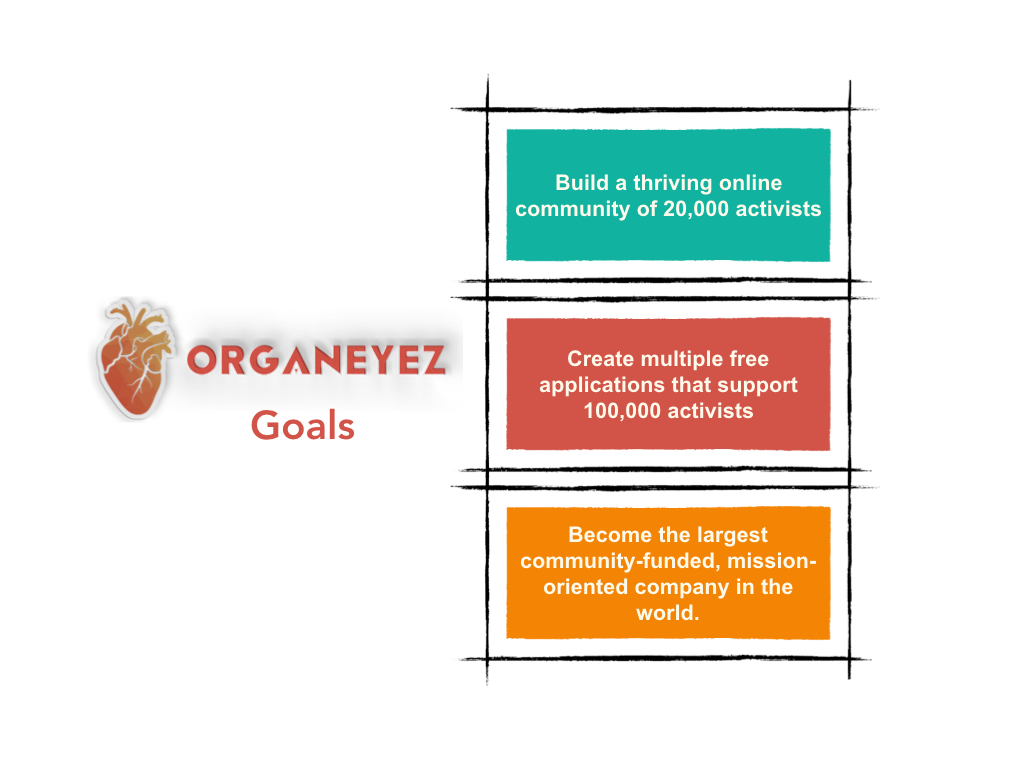
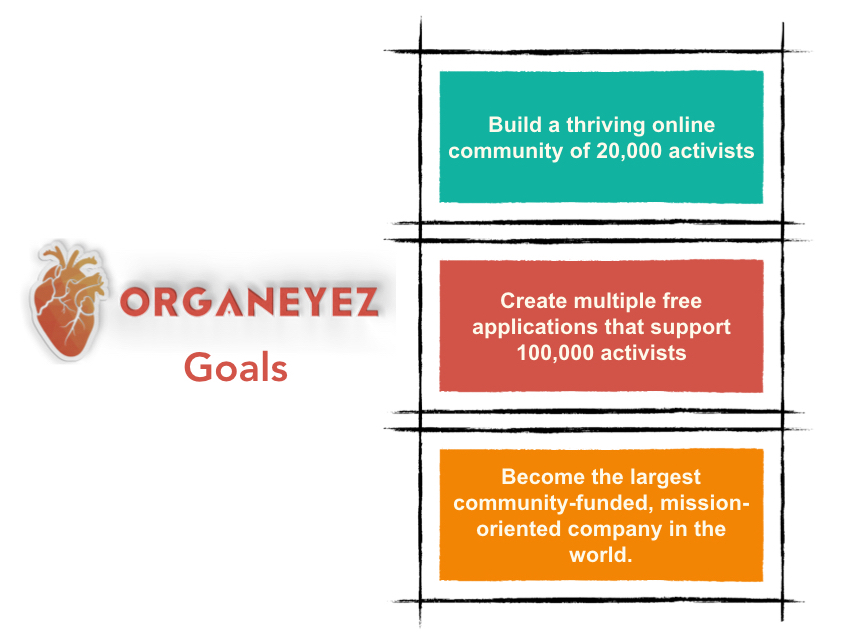
Add final cropped graphics

Changed region(s): [[0.0306, 0.0312, 0.9482, 0.9672], [0.2141, 0.5304, 0.3671, 0.5928]]

diff --git a/index.html b/index.html
@@ -53,7 +53,7 @@
 
   <!-- MISSION -->
     <div id="index">
-      <p class="index-header">The Organeyez mission is to create tools and content that helps social justice organizations and movements be more effective.</p>
+      <p class="index-header">The Organeyez mission is to create tools and content that helps activists and social justice movements be more effective.</p>
     </div>
 
   <!-- ABOUT -->
@@ -62,21 +62,21 @@
     </div>
     <div class="about">
       <h2>Three Pillars</h2>
-      <img src="images/three-pillars.jpeg" id="three-pillars-img">
+      <img src="images/three-pillars-2.jpeg" id="three-pillars-img">
       <div id="three-pillars">
         <ul>
-          <li><strong>Educational Media:</strong> The first pillar is our educational media which will consist of podcast interviews and tons of digital material for social media including videos, memes, tips, recommended resources, and more. Podcast episode features stories of community organizers and researchers and their strategies for being effective. Through our educational media, we strive to help thousands of activists learn effective strategies around security, accountability, scaling, project management, and more.</li>
+          <li><strong>Educational Media:</strong> The first pillar is our educational media which consists of podcast interviews and tons of digital material for social media including videos, memes, tips, recommended resources, and more. Podcast episodes feature various types of activists who talk about the social justice work they are involved in and their strategies for being effective. Through our educational media, we strive to help thousands of activists learn about ways to approach security, accountability, scaling, campaigning, decision-making, strategizing, and more.</li>
           <li><strong>Technology</strong>: Second is our free software applications. We will build and release new apps according to our funding and capacity. Our first app is called Your Activist Resource Directory (YARD) and its an activist platform for creating and sharing libraries of free online resources. YARD aims to help activists share the work of finding and collecting research papers, public policy reports, documentaries, news articles, and other crucial educational information. By organizing it all in one central location that is easy to access, we reduce repetitive work and make it easier for each organization to educate its members, supporters, and general community.</li>
-          <li><strong>Online Community:</strong> Third is our online community. This is a community of activists who are working to improve efficiency, sustainability, and effectiveness in grassroots movements. Through posts and discussions this community will support members as they work to find ideas and resources that can help their organizations improve internal processes, accountability, organization, recruiting, member development, campaign planning, security, and more.</li>
+          <li><strong>Online Community:</strong> Third is our online community. We are working to build a community of activists who want their movements to have long-term impacts. Through posts and discussions this community will support members as they work to find ideas and resources that can help their organizations organize, strategize, and launch successful programs or campaigns.</li>
         </ul>
       </div>
     </div>
 
     <div class="about">
       <h2>Organizational Structure</h2>
-      <p>Starting off with a strong structure helps to lay a foundation that Organeyez can use to become efficient and sustainable. Structure is important because structure impacts both internal culture and the communities that we serve.</p>
+      <p>Starting off with a strong structure helps to lay a foundation that Organeyez can use to become efficient and sustainable. Structure is important because structure impacts both internal culture and the communities that we aim to serve.</p>
       <p>We currently consist of four teams with Iris, our founder, operating as Executive Director:</p> 
-      <img src="images/org-structure.jpeg" id="org-structure-img">
+      <img src="images/org-structure-2.jpeg" id="org-structure-img">
       <p>Our organizational structure will develop over time, but we are currently prioritizing two structural focuses</p> 
       <p>1. Culture and Sustainability</p>
       <p>2. Systems and Processes</p>
@@ -85,7 +85,7 @@
       <div class="bullet-div">
         <ul>
           <li>Democratic decision making system</li>
-          <li>A "sweat equity" based compensation structure</li>
+          <li>A "sweat equity" compensation structure</li>
           <li>Self-directed and flexible participation</li>
           <li>Continuous feedback processes</li>
         </ul>
@@ -99,9 +99,8 @@
      
     <div class="about">
       <h2>Compensation</h2>
-      <p>Our financial status is that of an LLC owned by the founder, Iris Nevins. This allows us to avoid the bureaucracy and red tape of running a non-profit. We ask supporters to help pay for organizational costs and labor by sending monthly donations to our Patreon account. This is our only form of income for the work that we do and we determine compensation based on sweat equity. What does this mean? We use our funds to first pay for expenses such as website, podcast, communication, and marketing services. If there is a shortage of funding, we help to cover costs ourselves. If there is a surplus of funding then we divide up the surplus amount based on a sweat equity formula that we created. This formula determines what percentage of the surplus we receive based on the hours of work we have completed and the length of time we have been contributing to the organization. Compensation is never guaranteed, so none of us are here for the money. Whether we earn $10 or $500, the mission is why we are here and all compensation is just a meaningful way to thank us for the work we do. 
-      <img src="images/expenses-and-compensation.jpg" id="expenses-comp-img"> 
-      <p class="caption"><em>the above graphic is outdated and will soon be updated</em></p>
+      <p>Our financial status is that of an LLC owned by the founder, Iris Nevins. This allows us to avoid the limitations and bureaucracy of running a non-profit. We ask supporters to help pay for organizational costs and labor by sending monthly donations to our Patreon account. This is our only form of income for the work that we do and we determine compensation based on sweat equity. What does this mean? We use our funds to first pay for expenses such as website, podcast, communication, and marketing services. If there is a shortage of funding, we help to cover costs ourselves. If there is a surplus of funding then we divide up the surplus amount based on a sweat equity formula that we created. This formula determines what percentage of the surplus we receive based on the hours of work we have completed and the length of time we have been contributing to the organization. Compensation is never guaranteed, so none of us are here for the money. Whether we earn $10 or $500, the mission is why we are here and all compensation is just a meaningful way to be rewarded for the work we do. 
+      <img src="images/financial-structure-2.jpeg" id="financial-structure"> 
     </div>
 
 

diff --git a/support.html b/support.html
@@ -54,11 +54,12 @@
   <div id="support-container">
     <p id="support-heading" class="blue-text">How Can You Support?</p>
     <h3>Financial</h3>
-    <p class="support-description">Though we are an LLC, we provide all of our services free of charge and intend to keep things this way. We believe that useful technology, resources, and information should be accessible to community organizations who are positively impacting the world.</p>
-    <p class="support-description">Nonetheless, we still have costs. We are looking to becoming a community funded company that is able to cover its expenses and compensation costs purely from monthly supporter payments made to our Patreon account. We believe that by sending monthly payments to Organeyez of $5/month or more, we can become the largest community funded mission-oriented corporation in the world.</p>
+    <p class="support-description">Though we are an LLC, we provide all of our services free of charge and intend to keep things this way. We believe that useful technology, resources, and information should be accessible to activists and organizations who are positively impacting the world.</p>
+    <p class="support-description">Nonetheless, we still have costs and we do deserve to be compensated for our labor. We are looking to become a community funded company that is able to cover its expenses and compensation costs purely from monthly supporter payments made to our Patreon account. We believe that by sending monthly payments to Organeyez of $5/month or more, we can become the largest community funded mission-oriented corporation in the world.</p>
     <p class="support-description">Whether you are a small donor or a large donor, we ask that you commit to monthly payments rather than a 1 time lump sum payment. Not only does this help us to distribute compensation fairly but it also helps to make YOU a long-term investor in our long-term project. To learn more about our expenses and compensation structure, please visit the <a href="http://organeyez.co/index.html" target="_blank" class=".active-link">home</a> page.</p>
+    <img src="images/financial-structure-2.jpeg" id="financial-structure">
     <h3>Energetic</h3>
-    <p class="support-description">If you cannot support financially, there are many other ways. If you are an activist we ask you to share our podcast with your organizing community, join our online community, and use our applications. If you are not an activist you can support by promoting awareness of who we are and what we do!</p>
+    <p class="support-description">If you cannot support financially, there are many other ways. If you are an activist we ask you to share our podcast with your organizing community, follow us on social media, join our online community, and use our applications. If you are not an activist you can support by promoting awareness of who we are and what we do!</p>
     <p class="support-description">If you have skills you would like to contribute to our organization, feel free to take a look at our open positions and reach out to us about joining our team!</p>
   </div>
 

diff --git a/openings.html b/openings.html
@@ -53,21 +53,24 @@
 <!-- SUPPORT US-->
   <div id="openings-container">
     <div id="openings-intro">
-      <p id="openings-heading" class="blue-text">Open Positions</p>
+      <p id="openings-heading" class="blue-text">Join Our Team</p>
       <p class="openings-description">Open positions are listed below. If you are interested in one or more positions please send an email to info@organeyez.co with your contact information, resume, and a brief explanation of why you want to join Organeyez.</p>
       <p class="openings-description">After you email us, we will contact you to explain more about our process. </p>
       <p class="openings-description">All workers are expected to work an average of anywhere between 1 and 10 hours a week. Your hours are very flexible and we won't question your time commitment unless you just disappear!</p>
       <p class="openings-description">We are looking for people with these qualities:</p>
       <ul class="openings-list">
-        <li>passionate about social justice</li>
-        <li>organized and able to work independently without being micromanaged</li>
-        <li>intrinsically motivated</li>
-        <li>good at communicating ideas, feelings, and thought processes</li>
-        <li>comfortable with giving and receiving both positive and negative feedback</li>
+        <li>Passionate about social justice</li>
+        <li>Organized and able to work independently without being micromanaged</li>
+        <li>Intrinsically motivated</li>
+        <li>Good at communicating ideas, feelings, and thought processes</li>
+        <li>Comfortable with giving and receiving both positive and negative feedback</li>
         <li>A knack for producing excellent work</li>
-        <li>We are a distrbuted team so access to a laptop and ability to participate in remote video-call meetings is crucial</li>
+        <li>We are a distributed team so access to a laptop and ability to participate in remote video-call meetings is crucial</li>
+        <li>Resonate with our values</li>
       </ul>
     </div>
+    <img src="images/values-2.jpeg" id="org-values-img">
+    <p class="openings-description blue-text"><strong>Open Positions</strong></p>
     <p class="openings-description blue-text"><strong>Engineering</strong></p>
     <ul class="openings-list">
       <li>Software Engineer</li>

diff --git a/podcast.html b/podcast.html
@@ -54,7 +54,7 @@
   <div id="podcast">
     <p id="podcast-heading" class="blue-text">Organeyez Podcast</p>
     <p class="visit">Follow our podcast blog <a href="https://organeyezpodcast.wordpress.com/" target="_blank">here</a></p>
-    <p class="podcast-description">The goal of our podcast is to seek out activists who have found valuable strategies for improving the growth and development of their organizations or the movements they support.</p>
+    <p class="podcast-description">The goal of our podcast is to seek out activists who are using valuable strategies to improve the growth and development of their organizations or the movements they are involved in.</p>
     <p class="podcast-description">We've identified 4 different types of activists and aim to engage those who have</p>
     <div class="bullet-div">
       <ul>

diff --git a/css/styles.css b/css/styles.css
@@ -120,9 +120,9 @@ body{
   text-align: left;
 }
 
-#org-structure-img, #three-pillars-img, #expenses-comp-img{
+#org-structure-img, #three-pillars-img, #financial-structure{
   width: 100%;
-  max-width: 500px;
+  max-width: 700px;
   height: auto;
   margin: 4px auto;
 }
@@ -131,6 +131,8 @@ body{
   text-align: left;
   width: 70%;
   margin: 0 auto;
+  font-size: 16px;
+  color: #264653;
 }
 
 .caption{
